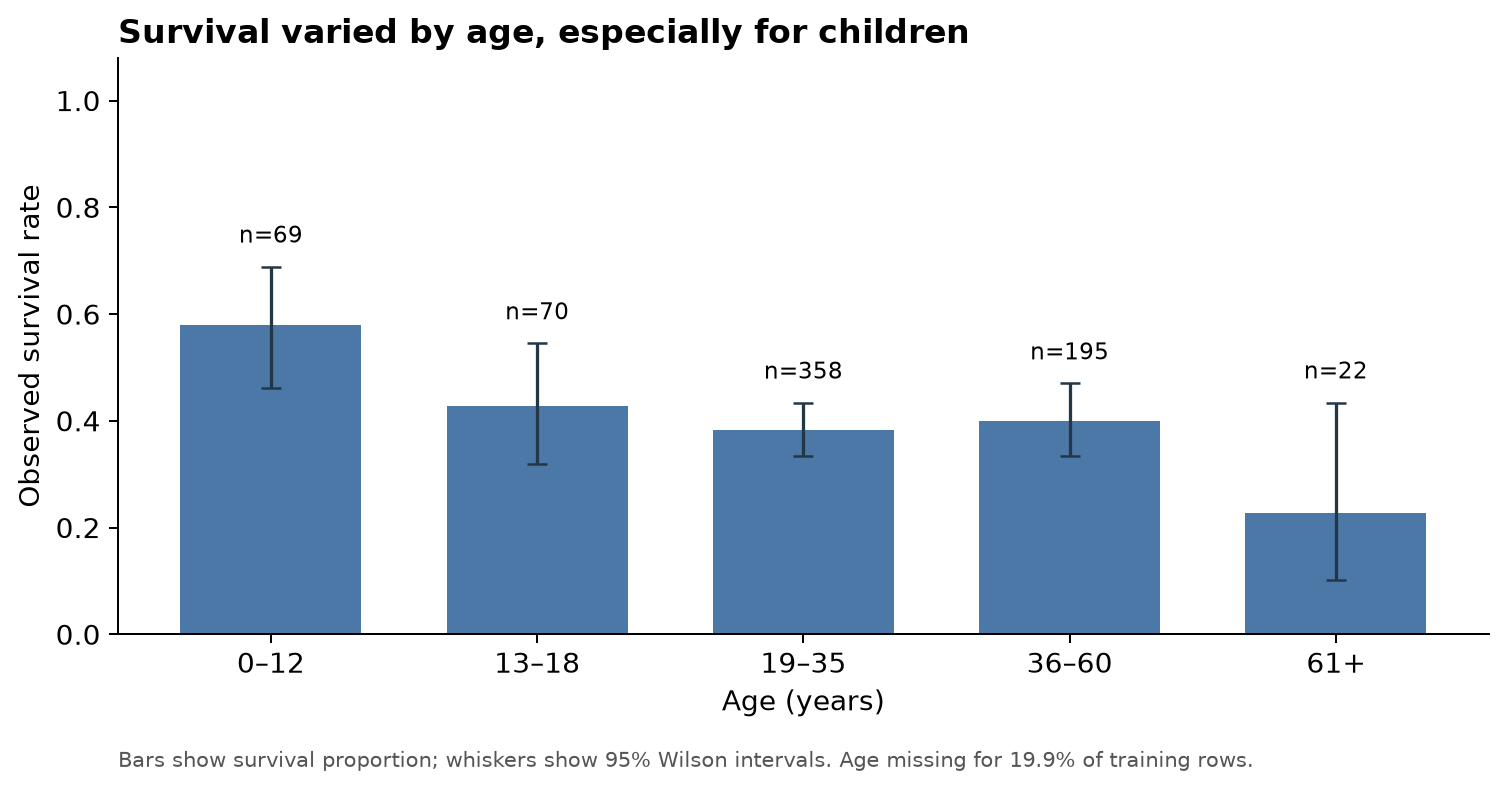
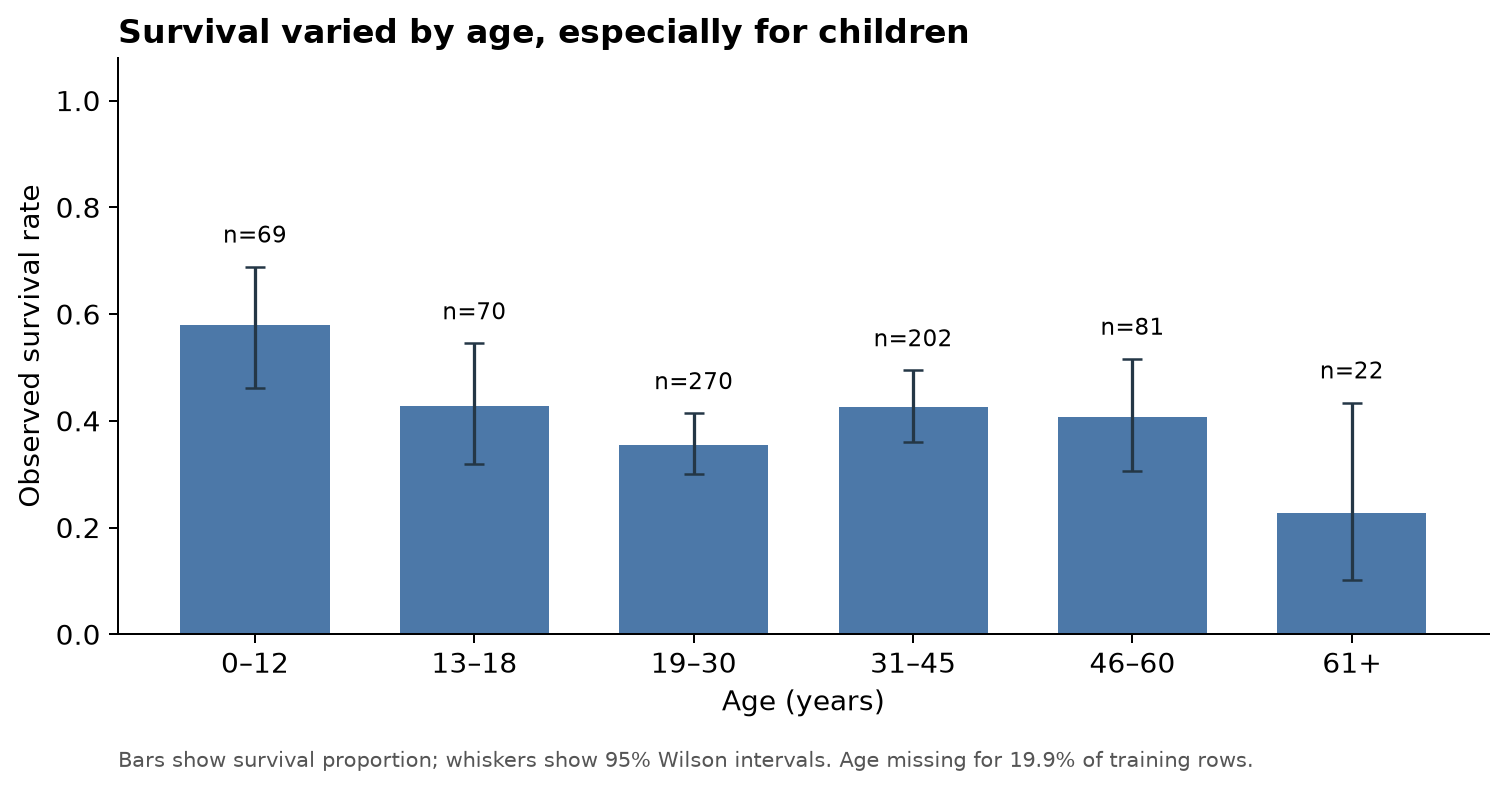
Align Titanic age bands with member B analysis

diff --git a/scripts/render_q5_figures.py b/scripts/render_q5_figures.py
@@ -62,8 +62,8 @@ print('sex/class\n',summary);print('family\n',s);print('missing train\n',train[f
 # Age and fare plots adapted from B’s earlier part_b notebook.
 df = train.copy()
 # Age survival rates by age band, with 95% Wilson intervals.
-age_bins = [0, 12, 18, 35, 60, 100]
-age_labels = ['0–12', '13–18', '19–35', '36–60', '61+']
+age_bins = [0, 12, 18, 30, 45, 60, float('inf')]
+age_labels = ['0–12', '13–18', '19–30', '31–45', '46–60', '61+']
 df['Age band'] = pd.cut(df['Age'], bins=age_bins, labels=age_labels, include_lowest=True)
 age_stats = df.dropna(subset=['Age']).groupby('Age band', observed=False)['Survived'].agg(['mean', 'count'])
 fig, ax = plt.subplots(figsize=(8.5, 4.6))
